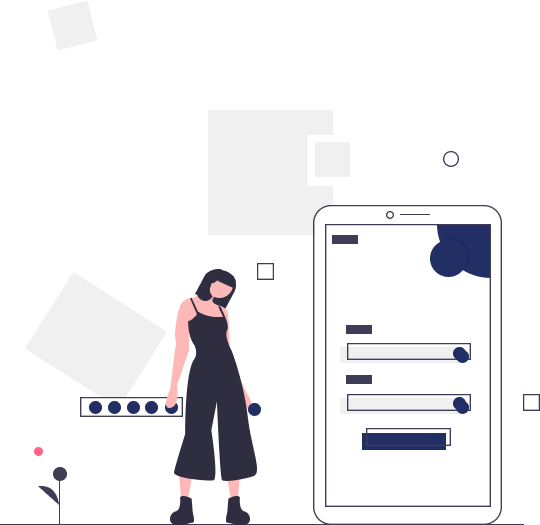
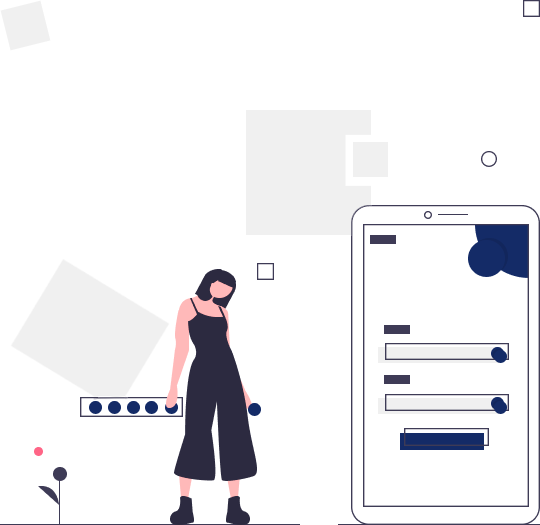
aded list

diff --git a/src/scss/home.scss b/src/scss/home.scss
@@ -13,10 +13,11 @@
 	display: flex;
 	align-items: center;
 	justify-content: space-between;
-	height: 1050px;
+	min-height: 1058px;
 	max-width: 1500px;
 	@media (max-width: 1500px) {
-		display: block;
+		@include adaptiveValue("min-height", 700, 0);
+		padding: 20px 0px;
 	}
 	// .list__column
 
@@ -40,9 +41,12 @@
 			flex: 1 1 975px;
 			@media (max-width: 1500px) {
 				max-width: 700px;
-				width: 100%;
+				width: 150%;
 				gap: 25px;
 				@include adaptiveValue("gap", 25, 15);
+			}
+			@media (max-width: 1050px) {
+				display: none;
 			}
 		}
 
@@ -52,10 +56,9 @@
 			right: 44%;
 			animation: gear-wheel_big 180s linear infinite both;
 			@media (max-width: 1500px) {
-				right: 13%;
-				top: 150px;
+				width: 60px;
 			}
-			@media (max-width: $tablet) {
+			@media (max-width: 1050px) {
 				display: none;
 			}
 		}
@@ -86,10 +89,9 @@
 			right: 36%;
 			animation: gear-wheel_small 75s linear infinite reverse both;
 			@media (max-width: 1500px) {
-				right: 14%;
-				top: 300px;
+				width: 50px;
 			}
-			@media (max-width: $tablet) {
+			@media (max-width: 1050px) {
 				display: none;
 			}
 		}
@@ -131,6 +133,9 @@
 		@media (max-width: 1500px) {
 			max-width: 675px;
 		}
+		@media (max-width: 1500px) {
+			max-width: 675px;
+		}
 	}
 
 	// .column-list__text
@@ -143,8 +148,8 @@
 		p {
 			padding: 5px 0;
 		}
-		@media (max-width: 1400px) {
-			max-width: 1500px;
+		@media (max-width: 1500px) {
+			max-width: 100%;
 		}
 	}
 
@@ -198,7 +203,6 @@
 	}
 
 	&__container {
-		padding: 35px 0px 0px 0px;
 	}
 }
 .wrapper-powerful {
@@ -208,10 +212,19 @@
 	align-items: center;
 	justify-content: center;
 	margin: 0px auto;
+	// @include adaptiveValue("padding-top", 108, 0);
+	@include adaptiveValue("padding-bottom", 50, 10);
+	@media (max-width: $pc) {
+		align-items: end;
+	}
+	@media (max-width: 994px) {
+		flex-wrap: wrap-reverse;
+	}
 	// .expert-column__title
 
 	&__title {
-		margin: 100px 0px 16px 0px;
+		@include adaptiveValue("margin-top", 100, 10);
+		margin: 0px 0px 16px 0px;
 	}
 
 	// .expert-column__text
@@ -224,13 +237,22 @@
 	display: flex;
 	align-items: center;
 	justify-content: flex-start;
+	@media (max-width: 450px) {
+		display: block;
+	}
 	// .expert-items__item
 
 	&__item {
-		padding: 0px 10px;
 		margin: 80px 30px 0px 0px;
+		@media (max-width: 994px) {
+			margin: 40px 30px 0px 0px;
+		}
+
 		&:last-child {
 			margin: 80px 0px 0px 0px;
+			@media (max-width: 994px) {
+				margin: 40px 0px 0px 0px;
+			}
 		}
 	}
 }
@@ -242,6 +264,9 @@
 		color: #5d6970;
 		font-size: rem(12);
 		line-height: math.div(18, 12);
+		@media (max-width: 450px) {
+			max-width: 300px;
+		}
 	}
 
 	// .item-expert__column
@@ -265,15 +290,28 @@
 	}
 }
 .expert-item {
-	flex: 1 1 50%;
+	flex: 0 0 50%;
 	margin: 0px 30px 0px 0px;
+
+	@media (max-width: $pc) {
+		flex: 1 1 100%;
+	}
+	@media (max-width: 994px) {
+		flex: 0 0 50%;
+	}
+	@media (max-width: 994px) {
+		flex: 1 1 100%;
+	}
 	&:last-child {
 		margin: 0px 0px 0px 0px;
 	}
 }
 .item-expert-img {
+	text-align: center;
 	img {
 		max-width: 540px;
 		width: 100%;
+		@media (max-width: 994px) {
+		}
 	}
 }
